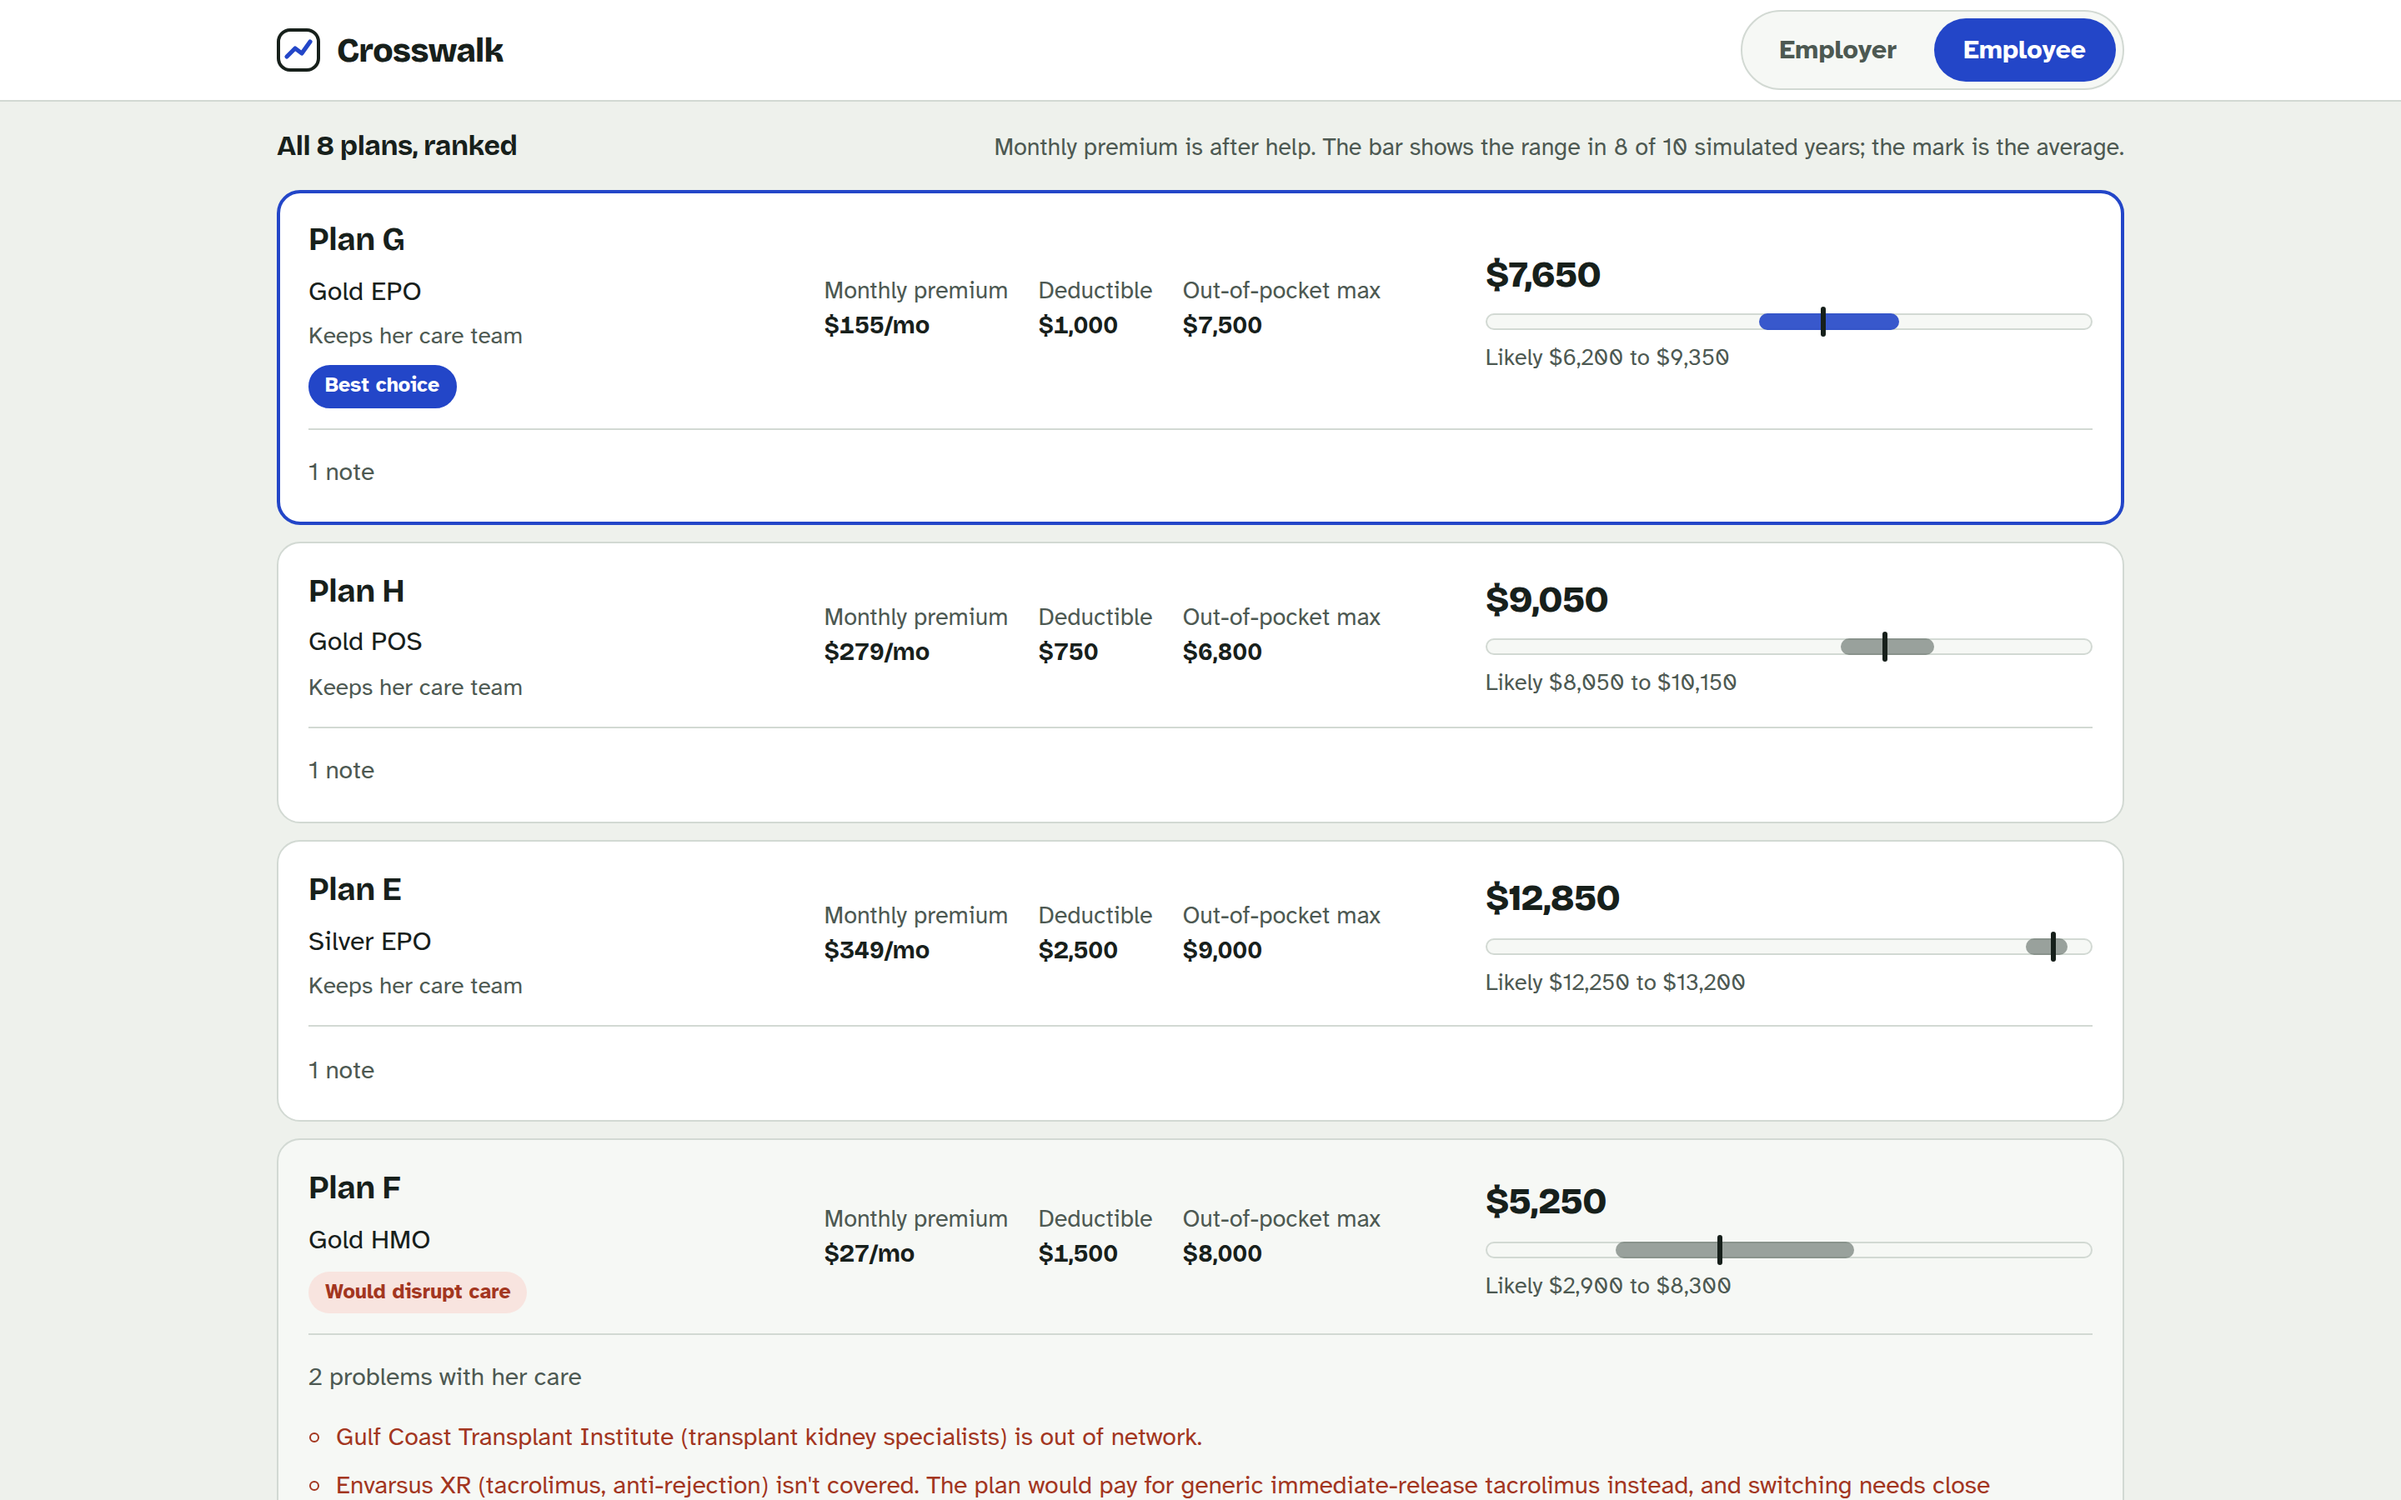
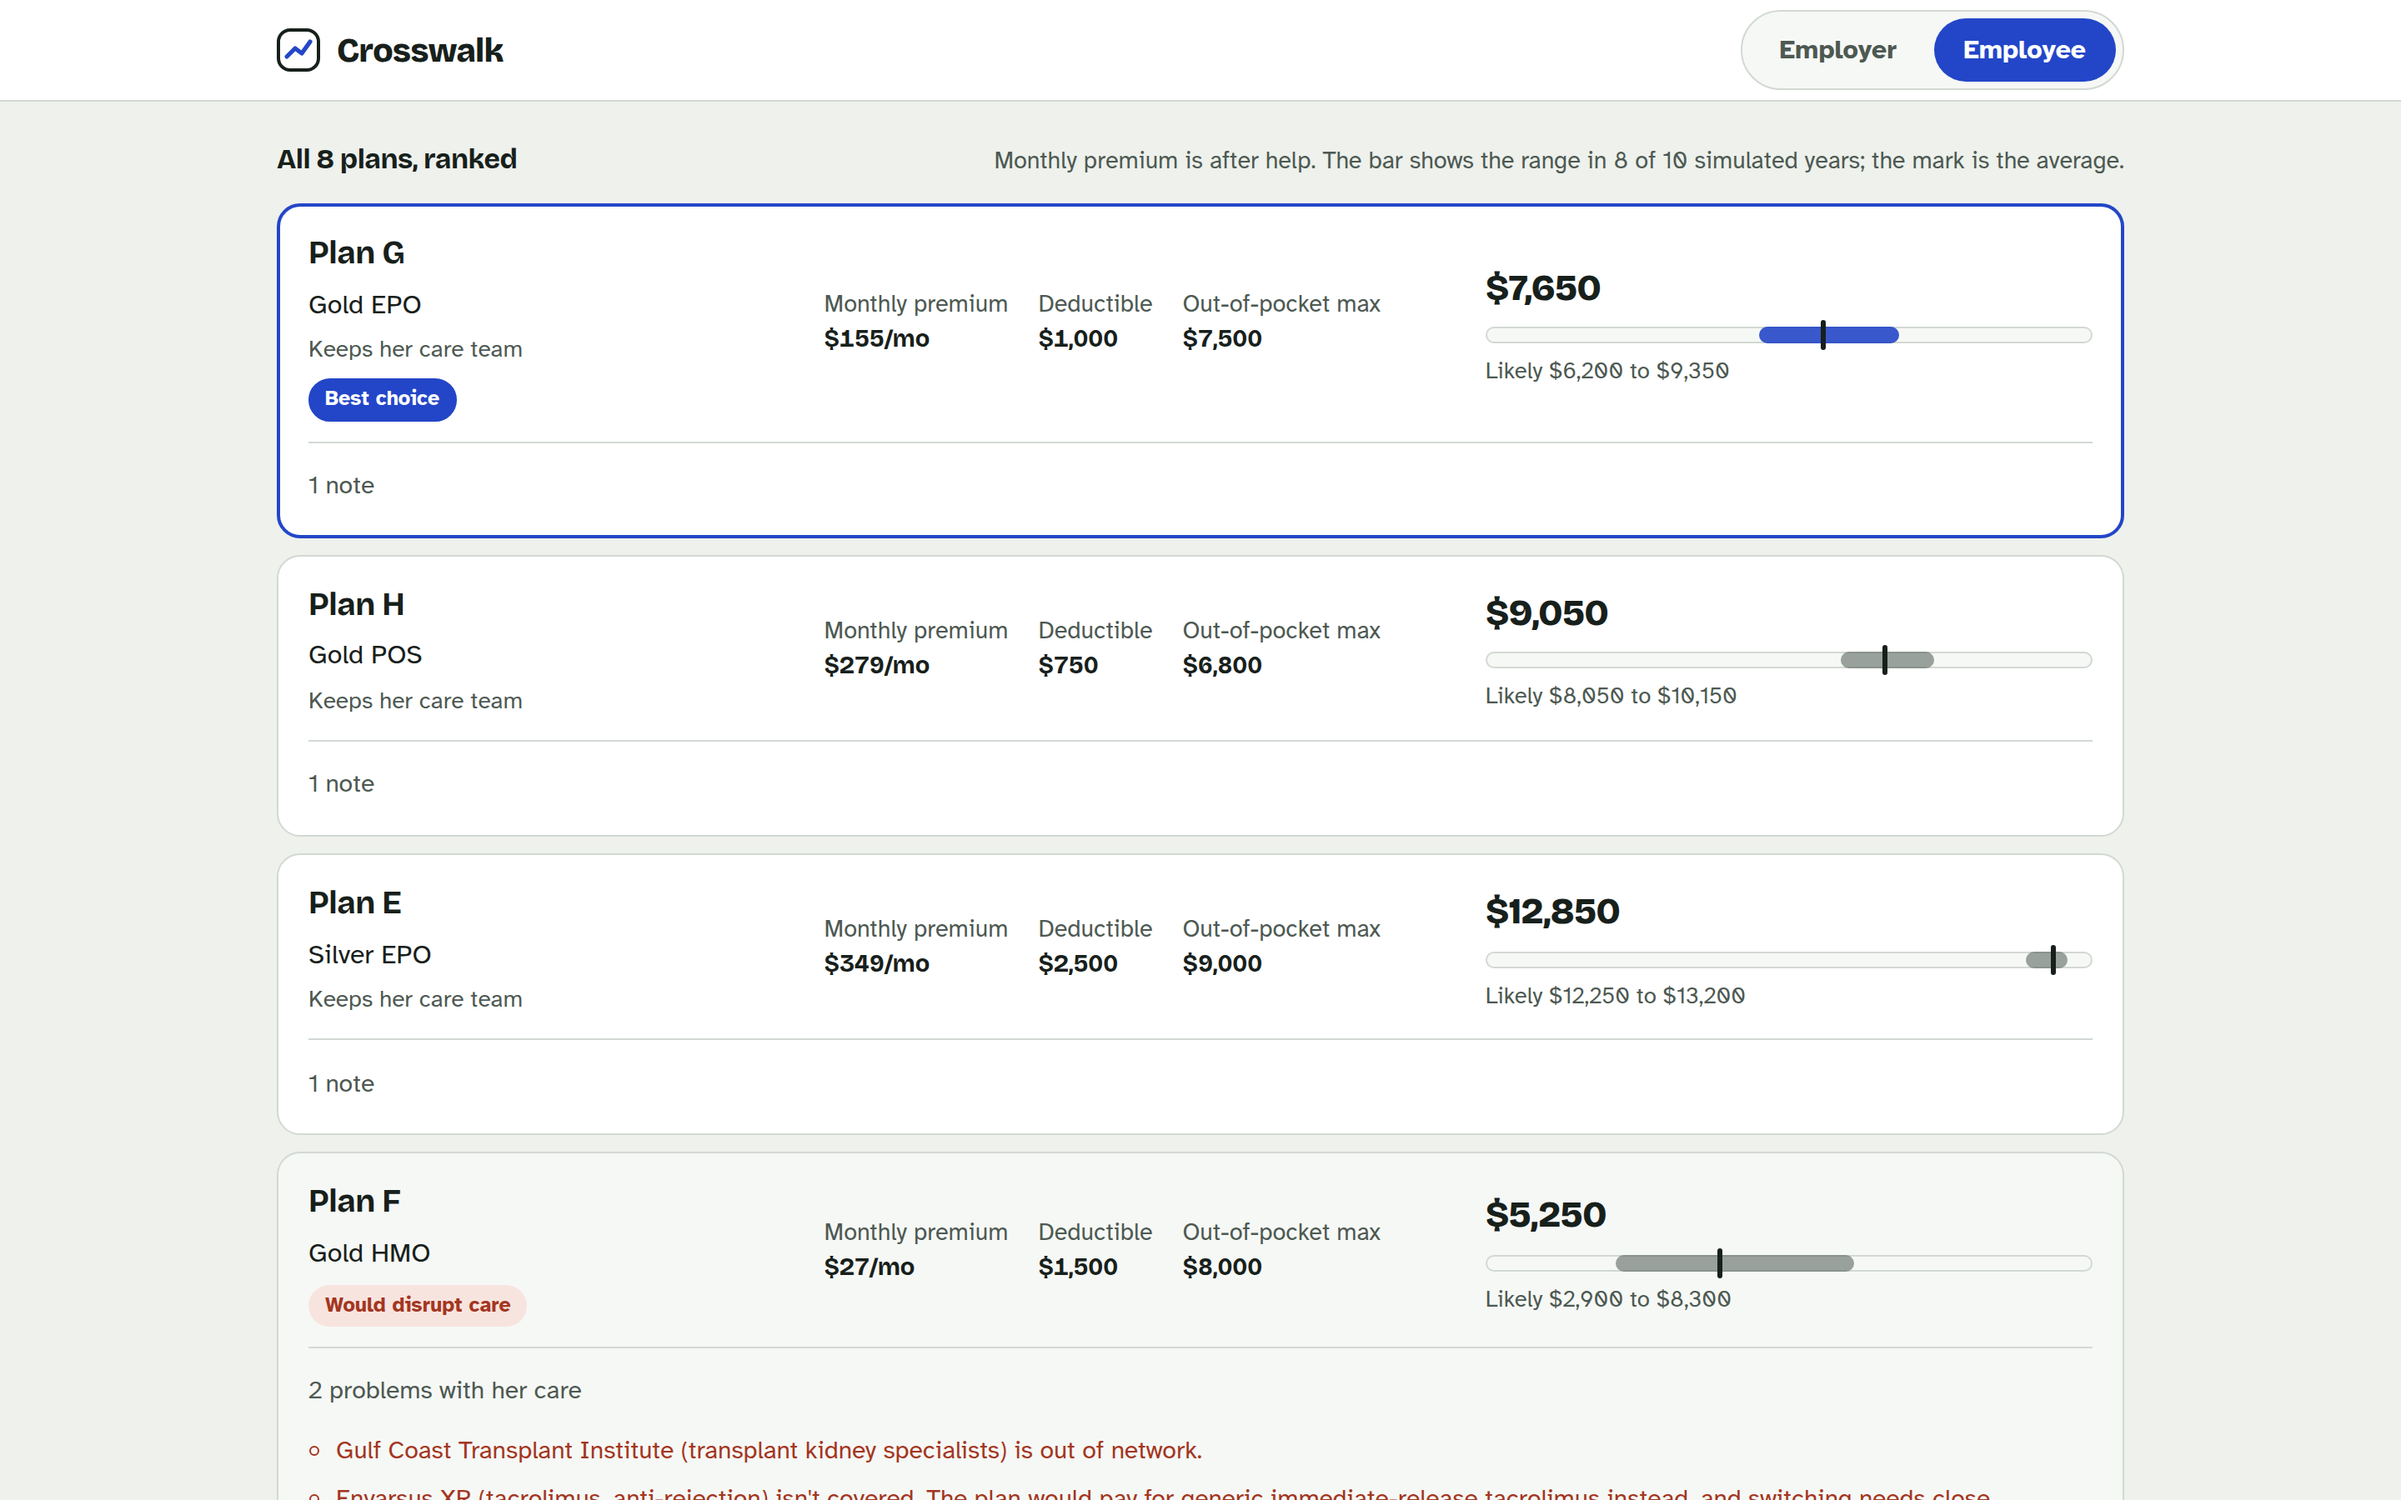
docs: keep one screenshot block, drop the two hero shots
The README now shows the four framed shots only. The two large hero captures
and their files are gone, and the capture script no longer produces them, so
nothing unreferenced is left in the repo.

Claude-Session: https://claude.ai/code/session_01NVBDUDP8Csxs6dViXAMofr

diff --git a/README.md b/README.md
@@ -7,19 +7,11 @@
 Synthetic data only. Not insurance, legal, tax, or actuarial advice.
 
 <p>
-  <a href="https://adam-behun.github.io/Crosswalk/?view=employer"><img src="docs/screenshots/employer.png" width="49%" alt="Employer view: the recommended ICHRA design, with the saving to the employer, the saving to employees, and how many come out no worse off"></a>
-  <a href="https://adam-behun.github.io/Crosswalk/?view=employee"><img src="docs/screenshots/employee-3-result.png" width="49%" alt="Employee view: the recommended plan, the ICHRA allowance and affordability note, and a month-by-month comparison against the lowest-premium plan"></a>
-</p>
-
-<details>
-<summary>More screenshots</summary>
-<p>
   <img src="docs/screenshots/employer-controls.png" width="49%" alt="Employer controls: class toggles, the allowance slider, the rules check and the by-class table">
   <img src="docs/screenshots/employee-2-records.png" width="49%" alt="The parsed FHIR record: conditions, prescriptions, care team and projected care">
   <img src="docs/screenshots/employee-4-ranked.png" width="49%" alt="All eight plans ranked, with care-disrupting plans last whatever they cost">
   <img src="docs/screenshots/employee-1-choose.png" width="49%" alt="Choosing which synthetic patient to walk through">
 </p>
-</details>
 
 ---
 
